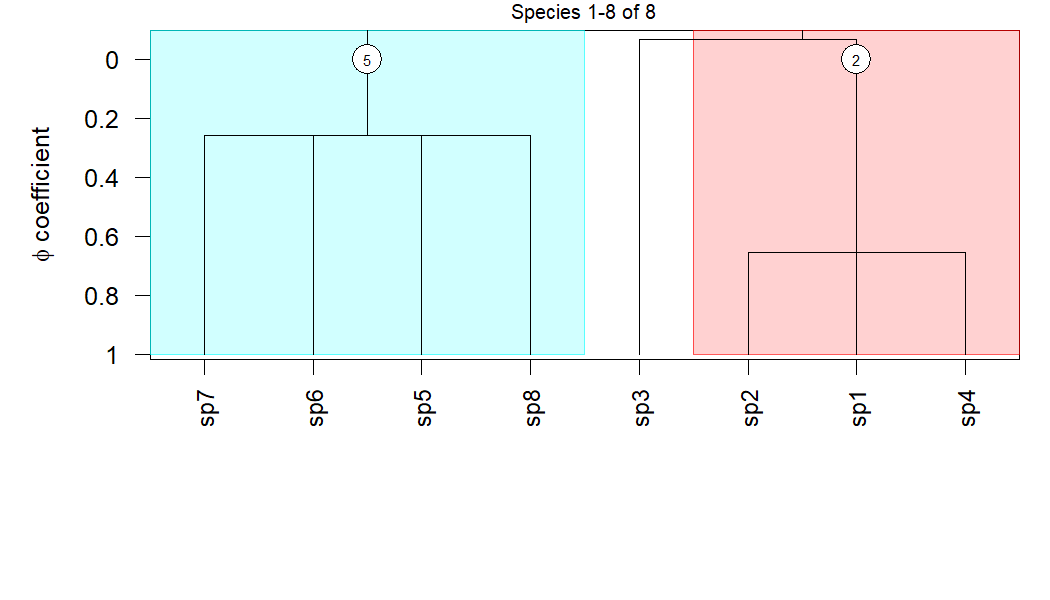
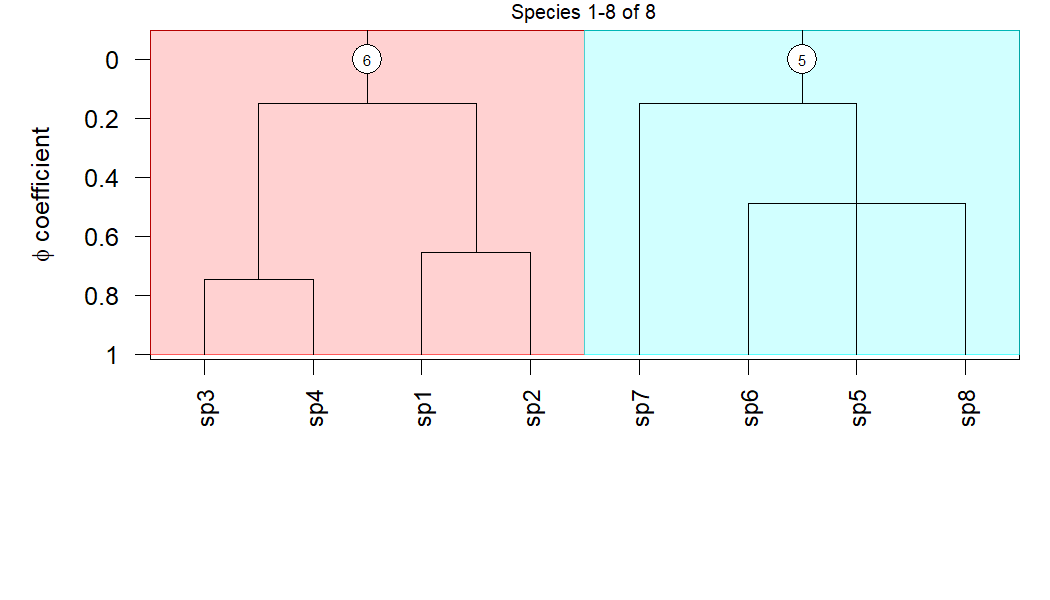
modified figures in the readme

diff --git a/README.md b/README.md
@@ -100,16 +100,16 @@ A small end-to-end example on a toy **plots × species** matrix, showing:
 library(cocktailr)
 
 # Toy plots × species matrix with percentage cover
-vm <- matrix( 
+vm <- matrix(
   c(
-    70,60,50, 5,  0, 0,10, 0,
-    65,55,45,10,  5, 0, 0, 0,
-    60,50,40, 5,  0,10, 0, 0,
-    10, 5, 0,60,50,40,10, 0,
-     5,10, 0,55,45,35, 0, 5,
-     0, 5,10,50,40,30, 0,10,
-     5, 0, 0,10, 0, 5,60,50,
-     0, 0, 5, 0,10, 0,55,45
+    60,50,40,30,  5, 0,10, 0,
+    55,45,35,25, 10, 5, 0, 0,
+    50,40,30,20,  5,10, 0, 5,
+    45,35,25,15,  0, 5, 5, 0,
+    10, 5, 0, 0, 60,50,40,30,
+     5,10, 0, 0, 55,45,35,25,
+     0, 5,10, 0, 50,40,30,20,
+     0, 0, 5,10, 45,35,25,15
   ),
   nrow = 8, byrow = TRUE,
   dimnames = list(
@@ -159,7 +159,7 @@ parent_labels <- clusters_at_cut(
 )
 
 parent_labels
-#> [1] "c_2" "c_5"
+#> [1] "c_1" "c_2" "c_4"
 ```
 
 ### 3. Diagnostic species for parent clusters
@@ -173,11 +173,14 @@ diag_sp_topo <- species_in_clusters(
 )
 
 diag_sp_topo
-#> $c_2
-#> [1] "sp1" "sp2" "sp4"
+#> $c_1
+#> [1] "sp3" "sp4"
 #> 
-#> $c_5
-#> [1] "sp5" "sp6" "sp7" "sp8"
+#> $c_2
+#> [1] "sp1" "sp2"
+#> 
+#> $c_4
+#> [1] "sp5" "sp6" "sp8"
 ```
 
 With φ-based filtering and ranking (uses `Species.cluster.phi`):
@@ -192,18 +195,21 @@ diag_sp_phi <- species_in_clusters(
 )
 
 diag_sp_phi
-#> $c_2
+#> $c_1
 #>   species      phi
-#> 1     sp1 0.745356
-#> 2     sp2 0.745356
-#> 3     sp4 0.487950
+#> 1     sp4 1.000000
+#> 2     sp3 0.745356
 #> 
-#> $c_5
+#> $c_2
 #>   species       phi
-#> 1     sp8 0.7745967
-#> 2     sp5 0.4666667
-#> 3     sp6 0.4666667
-#> 4     sp7 0.2581989
+#> 1     sp1 1.0000000
+#> 2     sp2 0.6546537
+#> 
+#> $c_4
+#>   species     phi
+#> 1     sp8 1.00000
+#> 2     sp5 0.48795
+#> 3     sp6 0.48795
 ```
 
 ### 4. φ-based distances between clusters
@@ -220,11 +226,12 @@ D <- cluster_phi_dist(
 )
 
 D
-#>            c_1        c_2        c_3        c_4
-#> c_2 0.20919762                                 
-#> c_3 1.00000000 1.00000000                      
-#> c_4 1.00000000 1.00000000 0.14608309           
-#> c_5 1.00000000 1.00000000 0.19892976 0.06566174
+#>           c_1       c_2       c_3       c_4       c_5
+#> c_2 1.0000000                                        
+#> c_3 1.0000000 1.0000000                              
+#> c_4 1.0000000 1.0000000 0.1234754                    
+#> c_5 1.0000000 1.0000000 0.2597516 0.1440071          
+#> c_6 0.2344706 0.3527497 1.0000000 1.0000000 1.0000000
 
 # Hierarchical clustering of clusters
 hc_nodes <- hclust(D, method = "average")
@@ -239,18 +246,18 @@ rect.hclust(hc_nodes, k = 2, border = 2)
 
 grp_nodes <- cutree(hc_nodes, k = 2)
 grp_nodes
-#> c_1 c_2 c_3 c_4 c_5 
-#>   1   1   2   2   2
+#> c_1 c_2 c_3 c_4 c_5 c_6 
+#>   1   1   2   2   2   1
 table(grp_nodes)
 #> grp_nodes
 #> 1 2 
-#> 2 3
+#> 3 3
 
 # Build node groups as character labels ("c_1", "c_2", …) per group
 node_groups <- split(names(grp_nodes), grp_nodes)
 node_groups
 #> $`1`
-#> [1] "c_1" "c_2"
+#> [1] "c_1" "c_2" "c_6"
 #> 
 #> $`2`
 #> [1] "c_3" "c_4" "c_5"
@@ -302,7 +309,7 @@ assign_phi <- assign_releves(
 
 assign_phi
 #> plot1 plot2 plot3 plot4 plot5 plot6 plot7 plot8 
-#> "g_2" "g_2" "g_2" "g_5" "g_5" "g_5" "g_5" "g_5" 
+#> "g_2" "g_2" "g_2" "g_2" "g_4" "g_4" "g_4" "g_4" 
 #> attr(,"details")
 #> attr(,"details")$strategy
 #> [1] "phi_cover"
@@ -314,7 +321,7 @@ assign_phi
 #> NULL
 #> 
 #> attr(,"details")$groups_used
-#> [1] "g_2" "g_5"
+#> [1] "g_1" "g_2" "g_4"
 #> 
 #> attr(,"details")$min_phi
 #> [1] 0.2
@@ -326,8 +333,8 @@ assign_phi
 #> character(0)
 table(assign_phi)
 #> assign_phi
-#> g_2 g_5 
-#>   3   5
+#> g_2 g_4 
+#>   4   4
 ```
 
 The returned vector is named by plot ID and contains:
